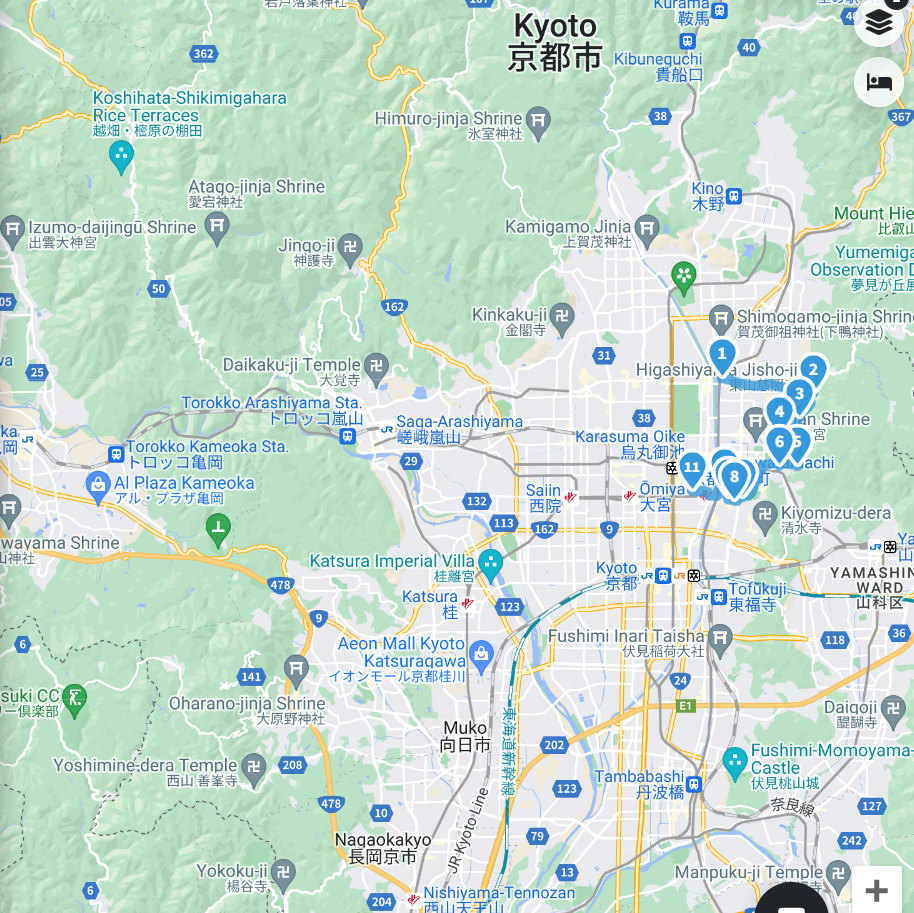
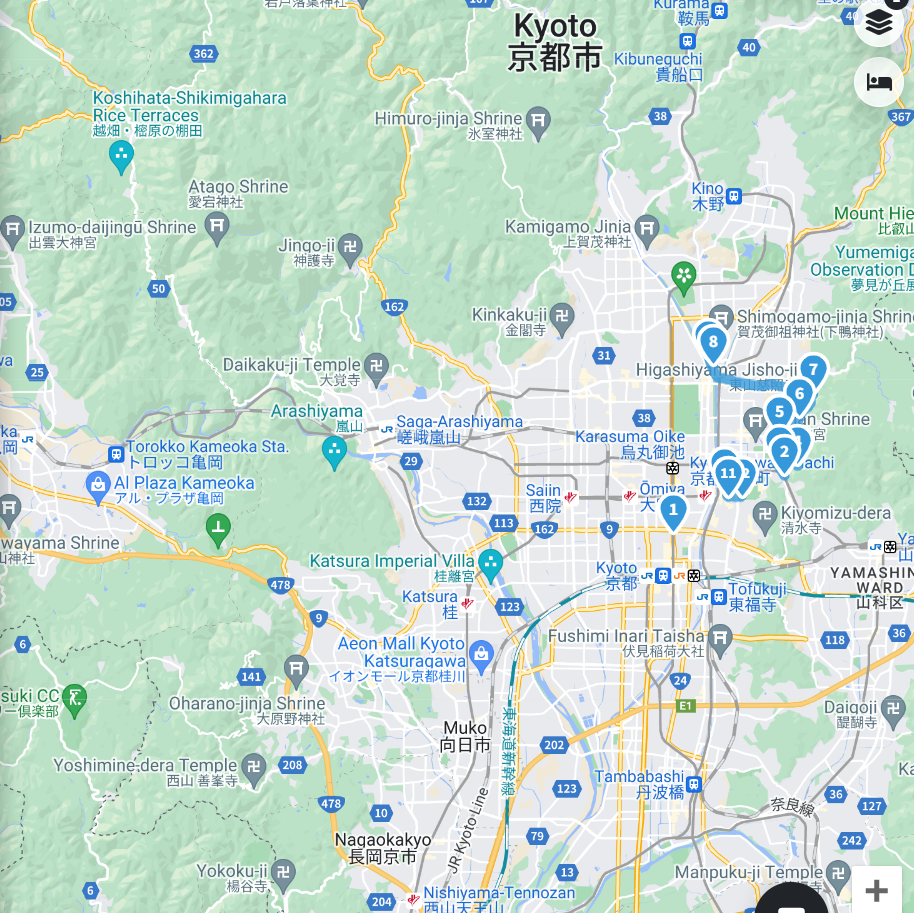
Kyoto itinerary shuffle

diff --git a/day16.html b/day16.html
@@ -50,16 +50,22 @@
             <h2 class="content-subhead bg-yellow">What We Had Planned</h2>
             <img class="pure-img-responsive" src=".\images\day16\wanderlog.png" alt="wanderlog itinerary map">
             <ul>
-              <li class="transport">Karasuma Line from Kyoto Station to Imadegawa Station (~10 minutes), then either a 15 minute bus or 45 minute walk from there.</li>
-              <li>Head to <strong>Higashiyama Jisho-ji</strong>, which has a sand mound shaped like Fuji-san!</li>
-              <li>Walk down <strong>Philosopher's Path</strong>.</li>
-              <li>Slight detour to <strong>Okazaki Shrine</strong>, another rabbit shrine.</li>
-              <li>Continuing the path, behind <strong>Nanzen-ji</strong> temple is the <strong>Suirokaku Water Bridge</strong> aquaduct.</li>
+              <li hidden class="transport">Karasuma Line from Kyoto Station to Imadegawa Station (~10 minutes), then either a 15 minute bus or 45 minute walk from there.</li>
+              <li class="transport">Walk to Gojō Station to get the Tozai Line then the Karasuma Line to Keage Station.</li>
               <li>Walk along the <strong>Keage Incline</strong>.</li>
-              <li>Head through <strong>Maruyama Park</strong> to <strong>Yasaka Shrine</strong>.</li>
-              <li>Walk through the historic streets of <strong>Hanamikoji Street</strong> and <strong>Shinbashi Dori</strong>.</li>
-              <li><strong>Nishiki Market</strong> for snacks.</li>
-              <li><em>Possibly sign up for a Gion (this area) night walking tour.</em></li>
+              <li>Behind <strong>Nanzen-ji</strong> temple is the <strong>Suirokaku Water Bridge</strong> aquaduct.</li>
+              <li>Detour to <strong>Okazaki Shrine</strong>, another rabbit shrine.</li>
+              <li>Walk up <strong>Philosopher's Path</strong>.</li>
+              <li><em>If time, head to <strong>Higashiyama Jisho-ji</strong>, which has a sand mound shaped like Fuji-san!</em></li>
+              <li class="transport">Walk or get the bus to Shin Aoibashi bus stop to meet for the cooking class at 12:00.</li>
+              <li>Booked cooking and food culture class with <strong>Haru Cooking</strong>, lasts around four hours.</li>
+              <li class="transport">Get the train down towards Gion.</li>
+              <li>Things we could do in the area, depending on energy levels:</li>
+              <ul>              
+                <li><em><strong>Yasaka Shrine</strong> and <strong>Maruyama Park</strong>.</em></li>
+                <li><em>Walk through the historic streets of <strong>Hanamikoji Street</strong> and <strong>Shinbashi Dori</strong>.</em></li>
+                <li><em>Sign up for a Gion night walking tour with KyotoLocalized.</em></li>
+              </ul>
             </ul>
           </div>
 

diff --git a/day00.html b/day00.html
@@ -104,8 +104,8 @@
               <li class="yes"><strong>Ghibli Museum</strong>: opened 10th May 10am.
               <br><small>Woke up and logged in for 2am BST, on three computers (one on a VPN pretending to be in Japan). Both the <a href="https://l-tike.com/st1/ghibli-en" target="_blank">international site</a> and the <a href="https://l-tike.com/ghibli/" target="_blank">Japan site</a> (<a href="https://quilt-behavior-fa7.notion.site/How-to-Buy-Ghibli-Museum-Tickets-for-Dec-22-Mar-23-5b5bdeeffe5641378354de3a258d3b49" target="_blank">via VPN</a>) kept crashing, but I finally got tickets at about 5am! The website was terrible; after about 1.5h of refreshing the international site I got put in a queue, but when I reached the end, got redirected to buy tickets for the Ghibli Park (different place) instead! Managed to get tickets via the Japan site for 10am on Monday 8th, and need to pick up the tickets when we arrive, so fingers crossed there are no issues. I have 'backup' international site tickets for 4pm on the same day, so will try to give those away if I have no issues collecting the earlier tickets.</small></li>
               <img class="pure-img-responsive" style="border: 1px solid lightgrey;" src=".\images\day00\ghibli-error.png" alt="screenshot of the crashed Ghibli page">
-              <li>Cooking class with <strong>Haru Cooking</strong>.
-              <br><small>How did this go?</small></li>
+              <li class="yes">Cooking & food culture class with <strong>Haru Cooking</strong>.
+              <br><small>I emailed about a month before we'd be in Kyoto to check for availability, and he had space for us on 19th May.</small></li>
               <li>Lunch at <strong>Tenryu-ji Temple</strong>.
               <br><small>How did this go?</small></li>
               <li><strong>Walking tour of Asakusa</strong> with TokyoLocalized: opens 10-14 days before.

diff --git a/day14.html b/day14.html
@@ -63,6 +63,7 @@
               <li>Near to Kinkaku-ji is <strong>Ryoan-ji</strong> temple with a rock garden, so I plan to request that we stop there while nearby.</li>
               <li>The afternoon is free, so either relax in the nice hotel (we have plenty of time in Kyoto, and will be moving to a cheaper hotel tomorrow), or:</li>
               <ul>
+                <li>Visit <strong>Nishiki Market</strong>.</li>
                 <li>Wander <strong>Higashiyama Ward</strong>.</li>
                 <li>Eat fresh tofu at <strong>Okutan Kiyomizu</strong>.</li>
               </ul>
